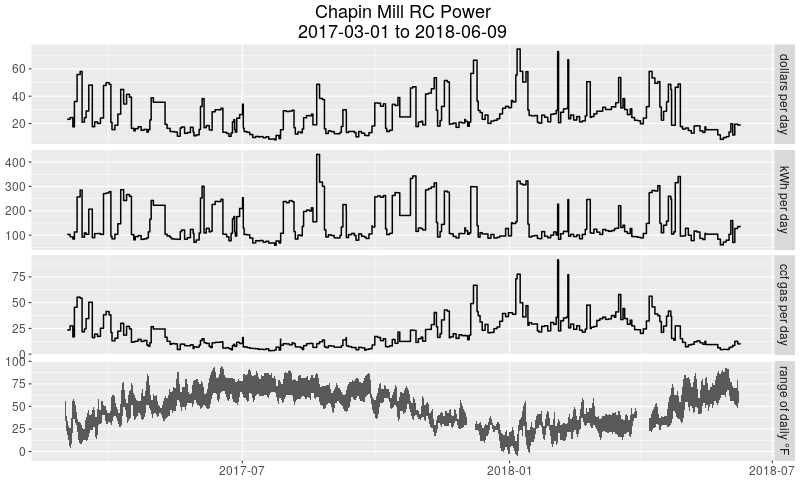
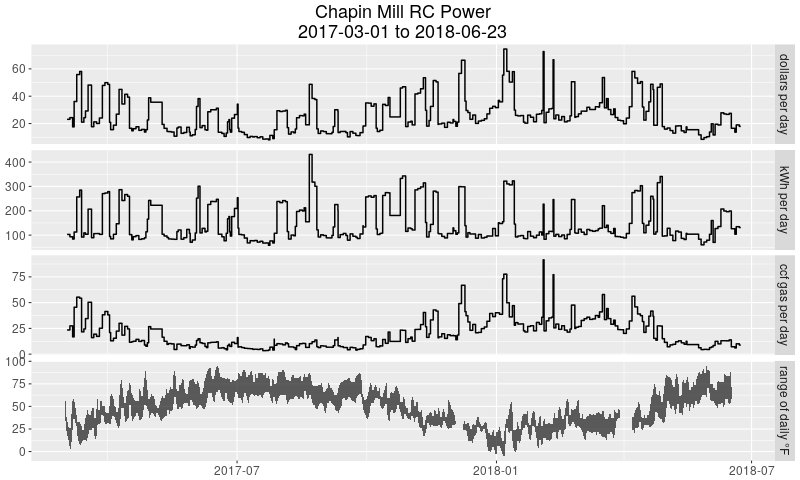
auto commit

diff --git a/index.html b/index.html
@@ -3,7 +3,7 @@
 "http://www.w3.org/TR/xhtml1/DTD/xhtml1-strict.dtd">
 <html xmlns="http://www.w3.org/1999/xhtml" lang="en" xml:lang="en">
 <head>
-<!-- 2018-06-09 Sat 07:53 -->
+<!-- 2018-06-23 Sat 09:26 -->
 <meta http-equiv="Content-Type" content="text/html;charset=utf-8" />
 <meta name="viewport" content="width=device-width, initial-scale=1" />
 <title>Chapin Mill Energy</title>
@@ -252,13 +252,13 @@ for the JavaScript code in this tag.
 <body>
 <div id="content">
 <h1 class="title">Chapin Mill Energy</h1>
-<div id="outline-container-org1ec8821" class="outline-2">
-<h2 id="org1ec8821">Energy Comparisons</h2>
-<div class="outline-text-2" id="text-org1ec8821">
+<div id="outline-container-orge0c99b3" class="outline-2">
+<h2 id="orge0c99b3">Energy Comparisons</h2>
+<div class="outline-text-2" id="text-orge0c99b3">
 </div>
-<div id="outline-container-org04cb6c9" class="outline-3">
-<h3 id="org04cb6c9">Energy Consumption and Weather</h3>
-<div class="outline-text-3" id="text-org04cb6c9">
+<div id="outline-container-org94e59d6" class="outline-3">
+<h3 id="org94e59d6">Energy Consumption and Weather</h3>
+<div class="outline-text-3" id="text-org94e59d6">
 <p>
 The plot below describes outdoor air temperatures and the rate of
 retreat center energy consumption for the past few months. These
@@ -317,7 +317,7 @@ dollar cost&#x2014;over all times of the year and over all events.
 
 <p>
 To be slightly more precise, 95% of the time the observed
-electricity power consumption was less than <code>311</code>
+electricity power consumption was less than <code>310</code>
 kWh per day, gas consumption was less than
 <code>47</code> hundred cubic feet per day and the
 overall energy cost was less than <code>54</code> dollars per
@@ -407,9 +407,9 @@ the results would not be very interesting.
 </div>
 </div>
 
-<div id="outline-container-orga773bcb" class="outline-3">
-<h3 id="orga773bcb">Natural gas</h3>
-<div class="outline-text-3" id="text-orga773bcb">
+<div id="outline-container-org69c5f27" class="outline-3">
+<h3 id="org69c5f27">Natural gas</h3>
+<div class="outline-text-3" id="text-org69c5f27">
 <p>
 For a given level of occupancy of the retreat center it would be
 natural to consider gas consumption as consisting of two parts:
@@ -522,9 +522,9 @@ predictions for times that are either idle, sesshin, SIMT or UR.)
 </div>
 </div>
 
-<div id="outline-container-orga6f87d2" class="outline-3">
-<h3 id="orga6f87d2">Electricity</h3>
-<div class="outline-text-3" id="text-orga6f87d2">
+<div id="outline-container-org2b0068d" class="outline-3">
+<h3 id="org2b0068d">Electricity</h3>
+<div class="outline-text-3" id="text-org2b0068d">
 <p>
 For the period under consideration electricity usage did not vary
 with outside air temperature in a significant way. The data only
@@ -599,9 +599,9 @@ dollars respectively.
 </div>
 </div>
 
-<div id="outline-container-orgd7b0b6a" class="outline-2">
-<h2 id="orgd7b0b6a">Details</h2>
-<div class="outline-text-2" id="text-orgd7b0b6a">
+<div id="outline-container-org354341f" class="outline-2">
+<h2 id="org354341f">Details</h2>
+<div class="outline-text-2" id="text-org354341f">
 <p>
 The natural gas model is
 \[
@@ -794,7 +794,7 @@ where \(y\) is electricity consumption in kWh per day and the
 </div>
 </div>
 <div id="postamble" class="status">
-<p class="date">Created: 2018-06-09 Sat 07:53</p>
+<p class="date">Created: 2018-06-23 Sat 09:26</p>
 <p class="validation"><a href="http://validator.w3.org/check?uri=referer">Validate</a></p>
 </div>
 </body>
